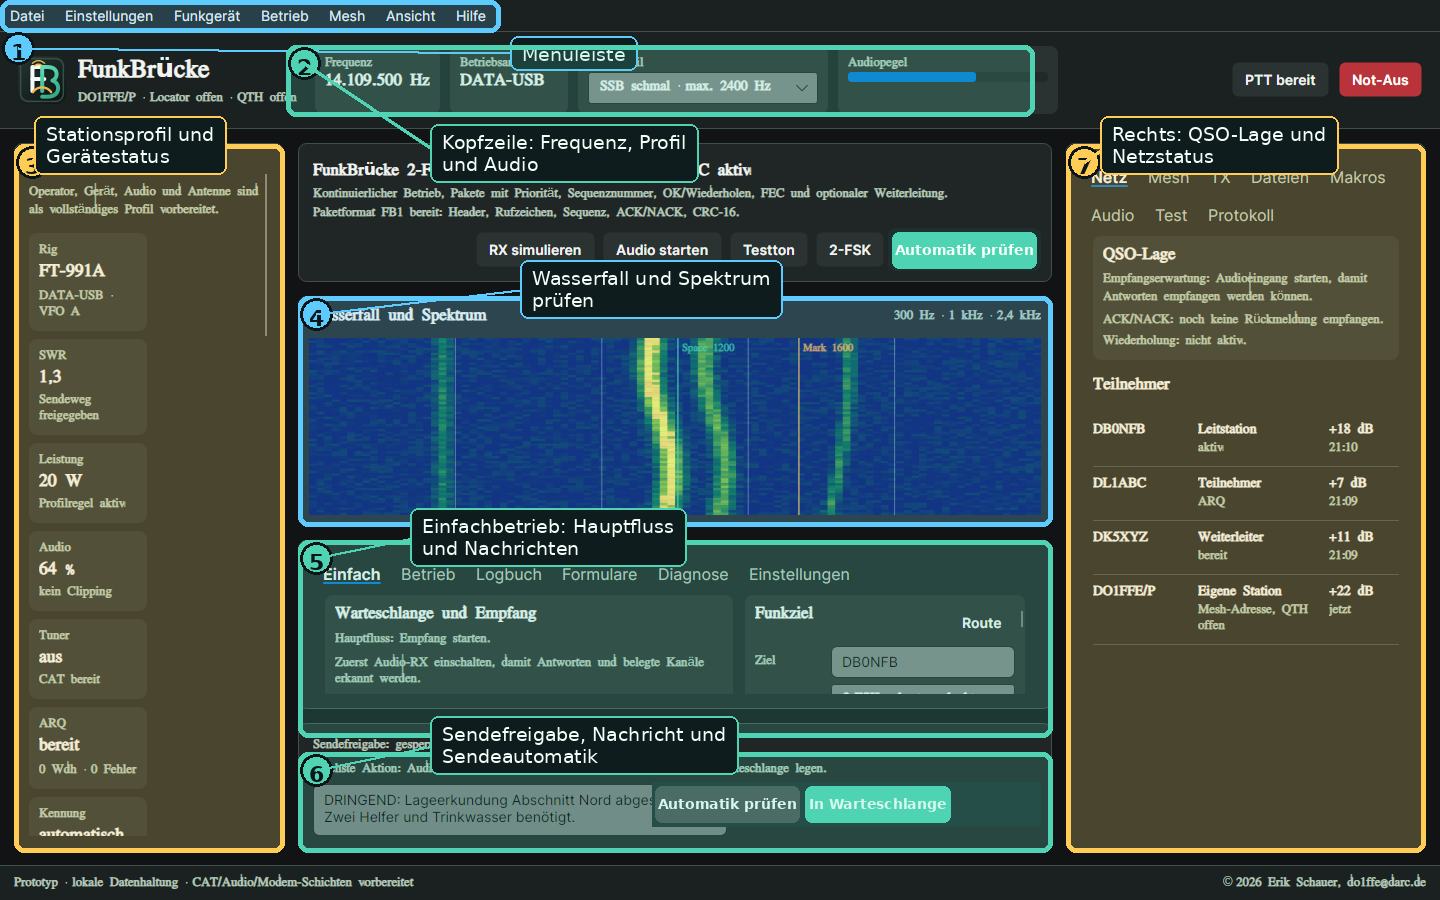
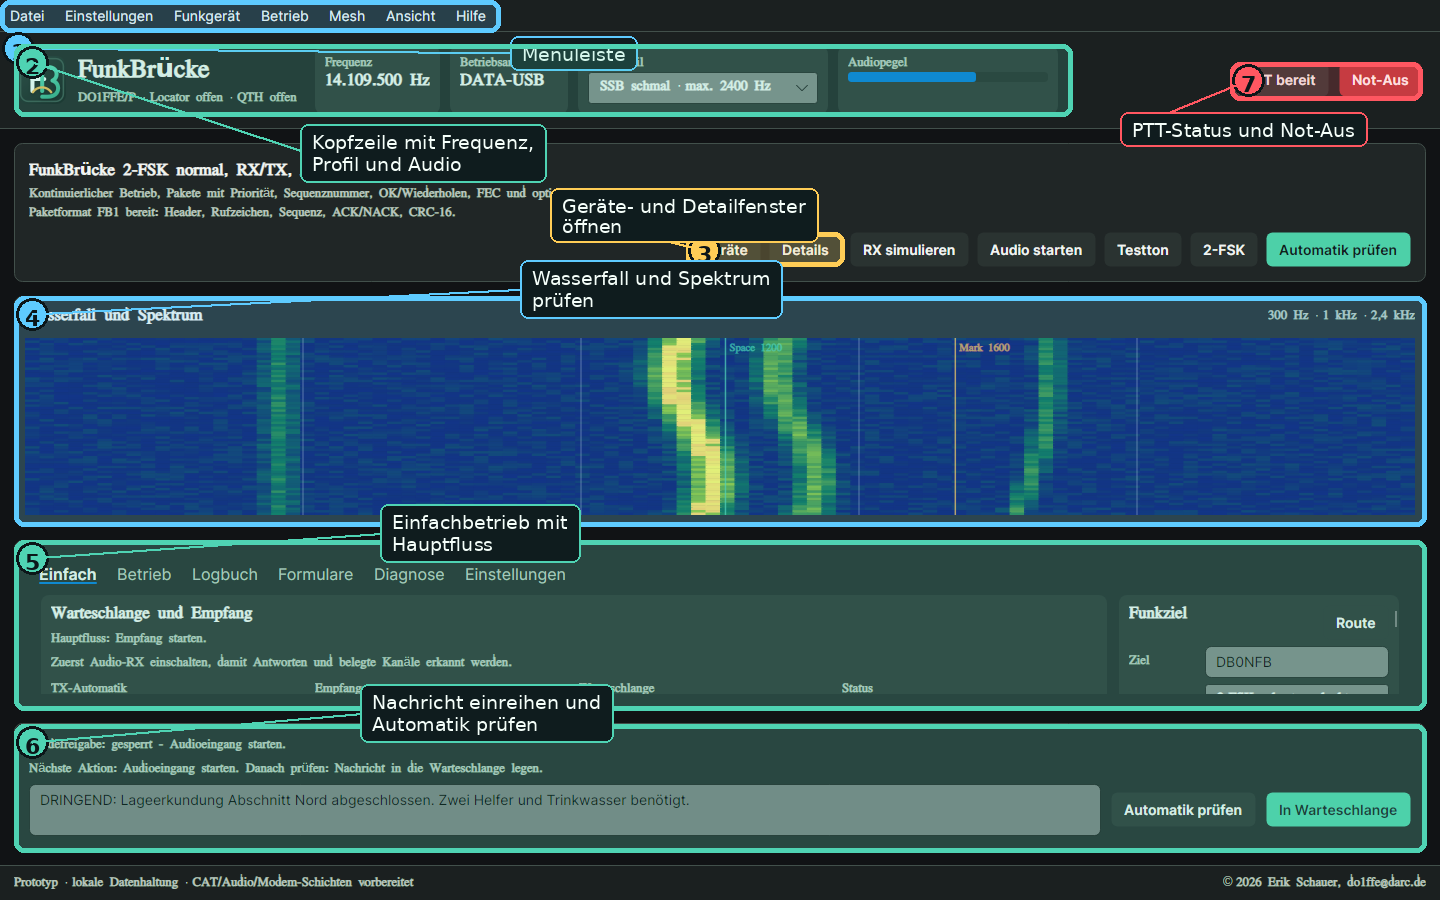
Aktualisiere FunkBruecke Webseite auf Mehrfensterstand

diff --git a/templates/funkbruecke.html b/templates/funkbruecke.html
@@ -274,9 +274,12 @@
       die vier Statusfelder TX-Automatik, Empfangen, Warteschlange und Status,
       Modusplan, Vor-TX-Prüfung, Antwort, Rückweg, Empfangen, Empfang einsortieren,
       FB2 senden/empfangen, Gespräch, Start prüfen, Ablauf zeigen, Fehlerhilfe, Zwei-Fenster-Test, Wasserfall, Spektrum,
-      CAT-/Audio-Bereiche, Mesh-Ansichten, Mesh-Karte, Feldnachweisblock, FB2-Planung und Protokollfenster. Die Menüs
-      oben bündeln Einstellungen, Hilfe, Versionsinformationen und technische Werkzeuge,
-      damit der Hauptbildschirm nicht mit Nebenfunktionen überladen wird.
+      CAT-/Audio-Bereiche, Mesh-Ansichten, Mesh-Karte, Feldnachweisblock, FB2-Planung und Protokollfenster.
+      Damit der Hauptbildschirm nicht mehr mit allen Bereichen gleichzeitig überladen wird,
+      ist die Bedienung auf mehrere Fenster verteilt: Das Hauptfenster bleibt für Wasserfall,
+      Warteschlange und einfachen Nachrichtenbetrieb zuständig. CAT, Frequenz, Audio,
+      Kanalprüfung und Sicherheit liegen im Gerätefenster. Netz, Mesh, TX, Dateien,
+      Makros, Audio, Test und Protokoll liegen im Detailfenster.
     </p>
     <p>
       Der wichtigste Entwicklungspfad ist derzeit der kontrollierte FB2-Zwei-Stationen-Test.
@@ -353,18 +356,14 @@
     <p class="eyebrow">Programmoberfläche</p>
     <h2>Alles Wichtige bleibt im Blick.</h2>
     <p>
-      Die Oberfläche bündelt Stationsprofil, CAT-Verbindung, Testabläufe,
-      Mesh-Hinweise, Sendepuffer, Hauptfluss, Rollenwahl, Antwortkarte,
-      Rückweg, Empfangen, Empfang einsortieren, FB2 senden/empfangen, Gespräch,
-      Moduswahl, Wiederholungslimit, RX-Härtung, Gesprächsabschluss, Auto-RX-Status,
-      FB1-Live-RX, FB2-Auto-RX, automatischen RX nach TX, Sendeautomatik-Praxisstatus, Auto-QSO-Bedienfluss, Zwei-Stationen-Livepraxis, Feldtestprotokoll, Zwei-Fenster-Rundlauf,
-      direkte FB2-Gesprächsaktionen, Feldnachweisvorschlag, Feldnachweis-Speicherung, FB2-Mesh-Automatikfreigabe, Technik und Diagnose,
-      Vor-TX-Prüfung, Rückweg-ACK, Fehlerantwort, FB2-Mesh-Live, 6-Hop-Praxisrundlauf,
-      Berichtsexport, Lastprüfung, direkter Audio-QSO-Abnahme bis 32-MFSK, Mesh-Audio-Abnahme,
-      Audio-Fehlerrückweg, Live-RX-Andockpunkt und Dokumentation. Die wichtigsten
-      Einstellungen liegen oben in der Menüzeile; im Einfachbetrieb führen Hauptleiste,
-      Start prüfen mit Praxisstartstufe, Sicherheitslinie, Automatik prüfen und die FB2-Karte durch Einreihen, Prüfung, Senden, Empfangen
-      und Antworten.
+      Die Oberfläche ist jetzt bewusst aufgeräumter aufgebaut. Das Hauptfenster zeigt die
+      laufende Funklage mit Frequenz, Profil, Wasserfall, Warteschlange und Automatik.
+      Alles, was viel Platz braucht, öffnet in eigenen Fenstern: Gerätebedienung für
+      CAT, Audio und Sicherheit sowie Betriebsdetails für Mesh, TX, Dateien, Makros,
+      Tests und Protokoll. Die wichtigsten Einstellungen liegen oben in der Menüzeile; im
+      Einfachbetrieb führen Hauptleiste, Start prüfen mit Praxisstartstufe,
+      Sicherheitslinie, Automatik prüfen und die FB2-Karte durch Einreihen, Prüfung,
+      Senden, Empfangen und Antworten.
     </p>
   </div>
   <div class="funkbruecke-showcase__media reveal">
@@ -380,11 +379,11 @@
   <div class="funkbruecke-screenshot-grid">
     <figure class="reveal">
       <img src="{{ url_for('static', filename='assets/funkbruecke-uebersicht.png') }}" alt="Markierte Übersicht der FunkBrücke-Oberfläche">
-      <figcaption>Übersicht mit Menüzeile, Profil, Wasserfall, TX-Automatik, Empfangen, Warteschlange, Status, gehärteter Sendeautomatik, Gesprächszustand, FB1-Live-RX, FB2-Auto-RX, Live-RX-Praxiskette, Live-RX-Andockpunkt, Feldnachweisvorschlag, Feldnachweis-Speicherung, FB2-Mesh-Automatikfreigabe, Rückweg-ACK, Fehlerantwort, FB2-Mesh-Live, 6-Hop-Praxisrundlauf, Berichtsexport, Zwei-Fenster-Rundlauf, Schrittliste und Abnahme.</figcaption>
+      <figcaption>Übersicht mit Menüzeile, Kopfstatus, Wasserfall, Warteschlange und Automatik. Geräte- und Detailbereiche öffnen in eigenen Fenstern, damit lange Prüflisten und Mesh-Status nicht mehr das Hauptfenster überladen.</figcaption>
     </figure>
     <figure class="reveal">
       <img src="{{ url_for('static', filename='assets/funkbruecke-fb2-test-tx.png') }}" alt="Markierter Bereich für FB2 senden und empfangen">
-      <figcaption>FB2 senden/empfangen und Mesh-Praxis: RX starten, Nachricht einreihen, Auto-QSO-Status und Sendeautomatik prüfen, gleiche Sicherheitslinie beachten, Rückweg-ACK oder Fehlerantwort beobachten, Feldnachweise speichern oder laden, FB2-Mesh-Live mit normalem Bedienhinweis und Nachbar-Feldnachweis zum nächsten Hop prüfen, Praxisbericht exportieren und Audio-Abnahme prüfen; Technik und Diagnose bleiben für Nachweise und Fehlersuche erreichbar.</figcaption>
+      <figcaption>Detailfenster für TX, Mesh und Tests: Sendeautomatik, Kanalprüfung, Warteschlange, ARQ, Trockenlauf und Mesh-Status bleiben sichtbar, ohne die Hauptansicht zu überladen.</figcaption>
     </figure>
     <figure class="reveal">
       <img src="{{ url_for('static', filename='assets/funkbruecke-mesh-karte.png') }}" alt="Markierte Mesh-Karte mit Stationen, Locator, Linkmodus und Stationsliste">

diff --git a/tests/test_routen.py b/tests/test_routen.py
@@ -257,7 +257,8 @@ def test_funkbruecke_seite_zeigt_aktuellen_prototypstand():
 
     assert antwort.status_code == 200
     assert "Derzeit noch ein Prototyp" in html
-    assert "v0.9.261" in html
+    assert "v0.9.262" in html
+    assert "Makros, Audio, Test und Protokoll liegen im Detailfenster" in html
     assert "funkbruecke-logo.png" in html
     assert "FunkBrücke Logo" in html
     assert "FB-Monogramm" in html